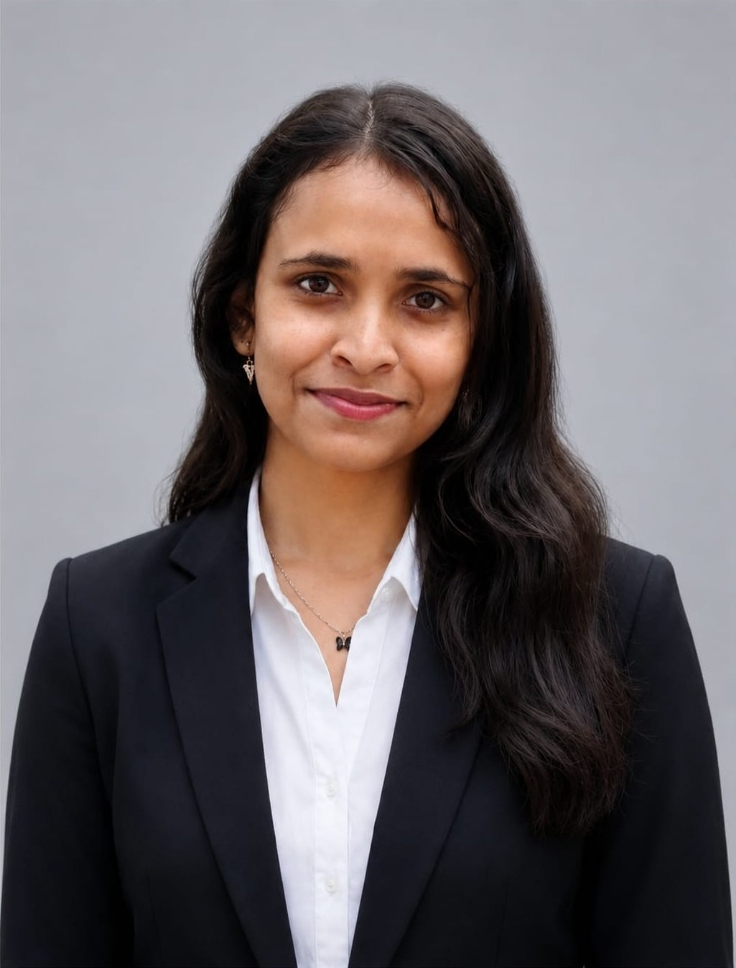
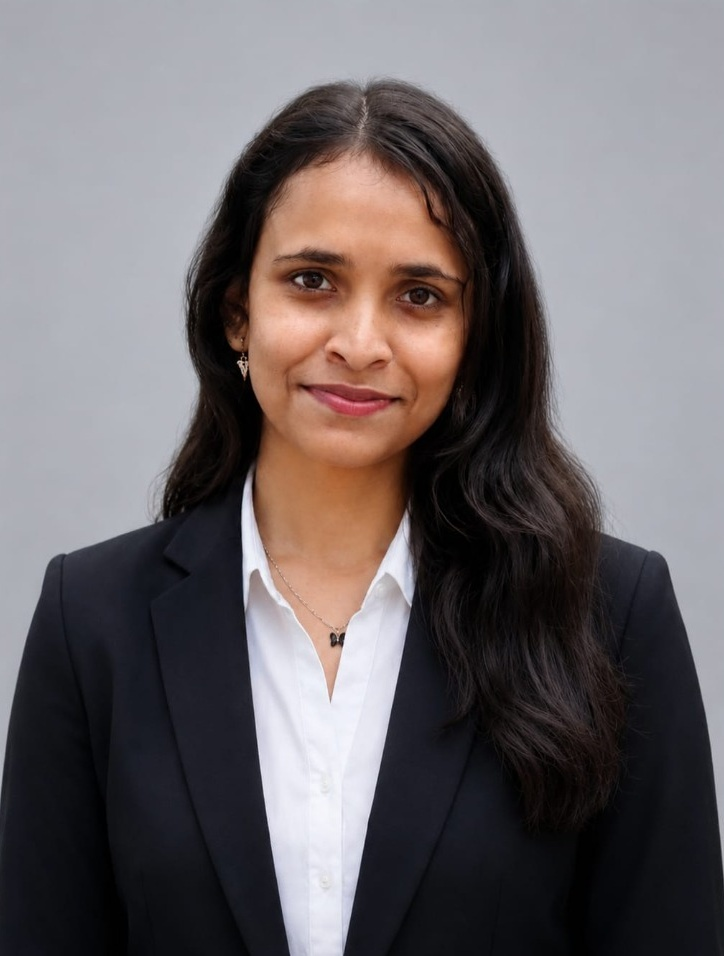
Redesign About section to match sample layout and fix photo framing

diff --git a/src/components/About.tsx b/src/components/About.tsx
@@ -2,7 +2,7 @@
 
 import { motion, Variants } from "framer-motion";
 import Image from "next/image";
-import { GraduationCap, Sparkles, MapPin, Award, BookOpen } from "lucide-react";
+import { GraduationCap, MapPin, Award, BookOpen } from "lucide-react";
 
 const aboutCards = [
   {
@@ -36,7 +36,7 @@ export default function About() {
     hidden: { opacity: 0 },
     visible: {
       opacity: 1,
-      transition: { staggerChildren: 0.15 },
+      transition: { staggerChildren: 0.12 },
     },
   };
 
@@ -46,41 +46,21 @@ export default function About() {
   };
 
   return (
-    <section id="about" className="pt-20 sm:pt-24 pb-20 scroll-mt-20 relative z-10 bg-transparent border-t border-[#CFE8D6]/10">
-      <div className="container mx-auto px-6 md:px-12">
+    <section id="about" className="pt-24 sm:pt-28 pb-20 scroll-mt-20 relative z-10 bg-transparent border-t border-[#CFE8D6]/10">
+      <div className="container mx-auto px-6 md:px-12 max-w-7xl">
         
-        {/* Section Header */}
-        <motion.div 
-          initial={{ opacity: 0, y: 30 }}
-          whileInView={{ opacity: 1, y: 0 }}
-          viewport={{ once: true, margin: "-100px" }}
-          transition={{ duration: 0.6 }}
-          className="mb-8 sm:mb-10 text-center lg:text-left"
-        >
-          <div className="inline-flex items-center gap-2 px-3.5 py-1.5 rounded-full bg-[#F5FAF7]/[0.06] border border-[#CFE8D6]/20 text-[#95C7A4] font-mono text-xs uppercase tracking-widest mb-3">
-            <Sparkles size={14} /> Discovery
-          </div>
-          <h2 className="text-3xl sm:text-5xl font-extrabold tracking-tight font-heading text-[#F5FAF7]">
-            About <span className="text-[#95C7A4] text-sage-glow">Me</span>
-          </h2>
-          <div className="h-1 w-16 bg-[#95C7A4] mx-auto lg:mx-0 rounded-full mt-3" />
-        </motion.div>
-
-        {/* Editorial Split Layout */}
-        <div className="flex flex-col lg:flex-row gap-10 lg:gap-12 items-stretch">
+        {/* Sample-Matched 2-Column Layout */}
+        <div className="grid grid-cols-1 lg:grid-cols-12 gap-10 lg:gap-14 items-center">
           
-          {/* Left: Portrait filling the box completely, parallel to right content */}
+          {/* Left Column: Portrait photo card matching the sample (rounded box, 3:4 aspect, no clipping) */}
           <motion.div 
-            className="w-full lg:w-5/12 flex flex-col"
-            variants={containerVariants}
-            initial="hidden"
-            whileInView="visible"
+            className="lg:col-span-5 flex justify-center lg:justify-start"
+            initial={{ opacity: 0, scale: 0.95 }}
+            whileInView={{ opacity: 1, scale: 1 }}
             viewport={{ once: true }}
+            transition={{ duration: 0.6 }}
           >
-            <motion.div 
-              variants={itemVariants} 
-              className="relative w-full h-full min-h-[380px] lg:min-h-[420px] rounded-[32px] overflow-hidden glass-panel border border-[#CFE8D6]/20 shadow-[0_20px_50px_rgba(18,27,22,0.9)] group bg-[#25332B]"
-            >
+            <div className="relative w-full max-w-[380px] sm:max-w-[420px] aspect-[3/4] rounded-[28px] overflow-hidden glass-panel border border-[#CFE8D6]/20 shadow-[0_20px_50px_rgba(18,27,22,0.9)] bg-[#25332B] group">
               <Image 
                 src="/saptaparni-profile-v2.jpg"
                 alt="Saptaparni Saha"
@@ -88,51 +68,56 @@ export default function About() {
                 className="object-cover object-top transition-transform duration-700 group-hover:scale-105"
                 priority
               />
-              <div className="absolute inset-0 bg-gradient-to-t from-[#25332B]/80 via-transparent to-transparent opacity-60 pointer-events-none" />
-            </motion.div>
+              <div className="absolute inset-0 bg-gradient-to-t from-[#25332B]/60 via-transparent to-transparent opacity-40 pointer-events-none" />
+            </div>
           </motion.div>
 
-          {/* Right: Editorial Typography Short Blocks + Soft Glass Info Cards */}
+          {/* Right Column: Title + 3 Descriptive Paragraphs + Glass Stat Cards */}
           <motion.div 
-            className="w-full lg:w-7/12 flex flex-col justify-between"
+            className="lg:col-span-7 flex flex-col justify-center"
             variants={containerVariants}
             initial="hidden"
             whileInView="visible"
             viewport={{ once: true }}
           >
-            {/* Elegant Short Text Blocks */}
-            <div className="space-y-6 mb-8">
-              <motion.div variants={itemVariants} className="space-y-2">
-                <span className="text-xs font-mono font-semibold text-[#95C7A4] uppercase tracking-[0.25em]">
-                  ABOUT
-                </span>
-                <p className="text-2xl sm:text-3xl font-light text-[#F5FAF7] leading-snug font-heading">
-                  AI Engineer passionate about RAG systems, FastAPI backends, and intelligent digital products.
-                </p>
-              </motion.div>
+            {/* Main Section Heading */}
+            <motion.div variants={itemVariants} className="mb-6">
+              <h2 className="text-3xl sm:text-4xl lg:text-5xl font-extrabold tracking-tight font-heading text-[#F5FAF7]">
+                About <span className="text-[#95C7A4] text-sage-glow">Me</span>
+              </h2>
+              <div className="h-1 w-16 bg-[#95C7A4] rounded-full mt-3" />
+            </motion.div>
 
-              <motion.p variants={itemVariants} className="text-[#CFE8D6]/80 text-base sm:text-lg leading-relaxed font-light">
-                Specializing in Retrieval-Augmented Generation architectures, vector embedding indexes like ChromaDB, predictive data modeling, and production-grade full-stack web applications.
-              </motion.p>
-            </div>
+            {/* 3 Sample Descriptive Paragraphs */}
+            <motion.div variants={itemVariants} className="space-y-4 text-[#CFE8D6]/85 text-base sm:text-[17px] leading-relaxed font-light mb-8">
+              <p>
+                I am a Computer Science student specializing in Artificial Intelligence and Data Engineering at Lovely Professional University. I enjoy solving analytical problems by breaking down data challenges into clear, logical steps.
+              </p>
+              <p>
+                My main technical focus is on building reliable backend systems, smart search tools (RAG applications), and full-stack web products. During my Machine Learning internship at Futurense, I built automated data pipelines to make processing faster and smoother.
+              </p>
+              <p>
+                I am always eager to learn new skills and apply logical thinking to write clean, easy-to-maintain software that delivers real-world impact.
+              </p>
+            </motion.div>
 
-            {/* 4 Soft Glass Cards Grid */}
-            <motion.div variants={itemVariants} className="grid grid-cols-1 sm:grid-cols-2 gap-4">
+            {/* 4 Soft Glass Detail Cards */}
+            <motion.div variants={itemVariants} className="grid grid-cols-1 sm:grid-cols-2 gap-3.5">
               {aboutCards.map((card) => {
                 const IconComponent = card.icon;
                 return (
                   <div 
                     key={card.title}
-                    className="glass-panel glass-panel-hover p-6 rounded-2xl flex items-start gap-4 border border-[#CFE8D6]/20 shadow-[0_10px_30px_rgba(18,27,22,0.6)]"
+                    className="glass-panel glass-panel-hover p-4 sm:p-5 rounded-2xl flex items-center gap-3.5 border border-[#CFE8D6]/20 shadow-[0_10px_30px_rgba(18,27,22,0.6)]"
                   >
-                    <div className="p-3 bg-[#95C7A4]/15 rounded-xl text-[#95C7A4] flex-shrink-0 border border-[#95C7A4]/25">
-                      <IconComponent size={22} />
+                    <div className="p-2.5 bg-[#95C7A4]/15 rounded-xl text-[#95C7A4] flex-shrink-0 border border-[#95C7A4]/25">
+                      <IconComponent size={20} />
                     </div>
-                    <div className="space-y-1">
-                      <span className="text-[11px] font-mono text-[#CFE8D6]/60 uppercase tracking-wider block">
+                    <div className="space-y-0.5">
+                      <span className="text-[10px] font-mono text-[#CFE8D6]/60 uppercase tracking-wider block">
                         {card.title}
                       </span>
-                      <p className="text-[#F5FAF7] font-semibold text-sm sm:text-base font-heading">
+                      <p className="text-[#F5FAF7] font-semibold text-sm font-heading">
                         {card.value}
                       </p>
                       <p className="text-[#95C7A4] text-xs font-mono font-medium">
